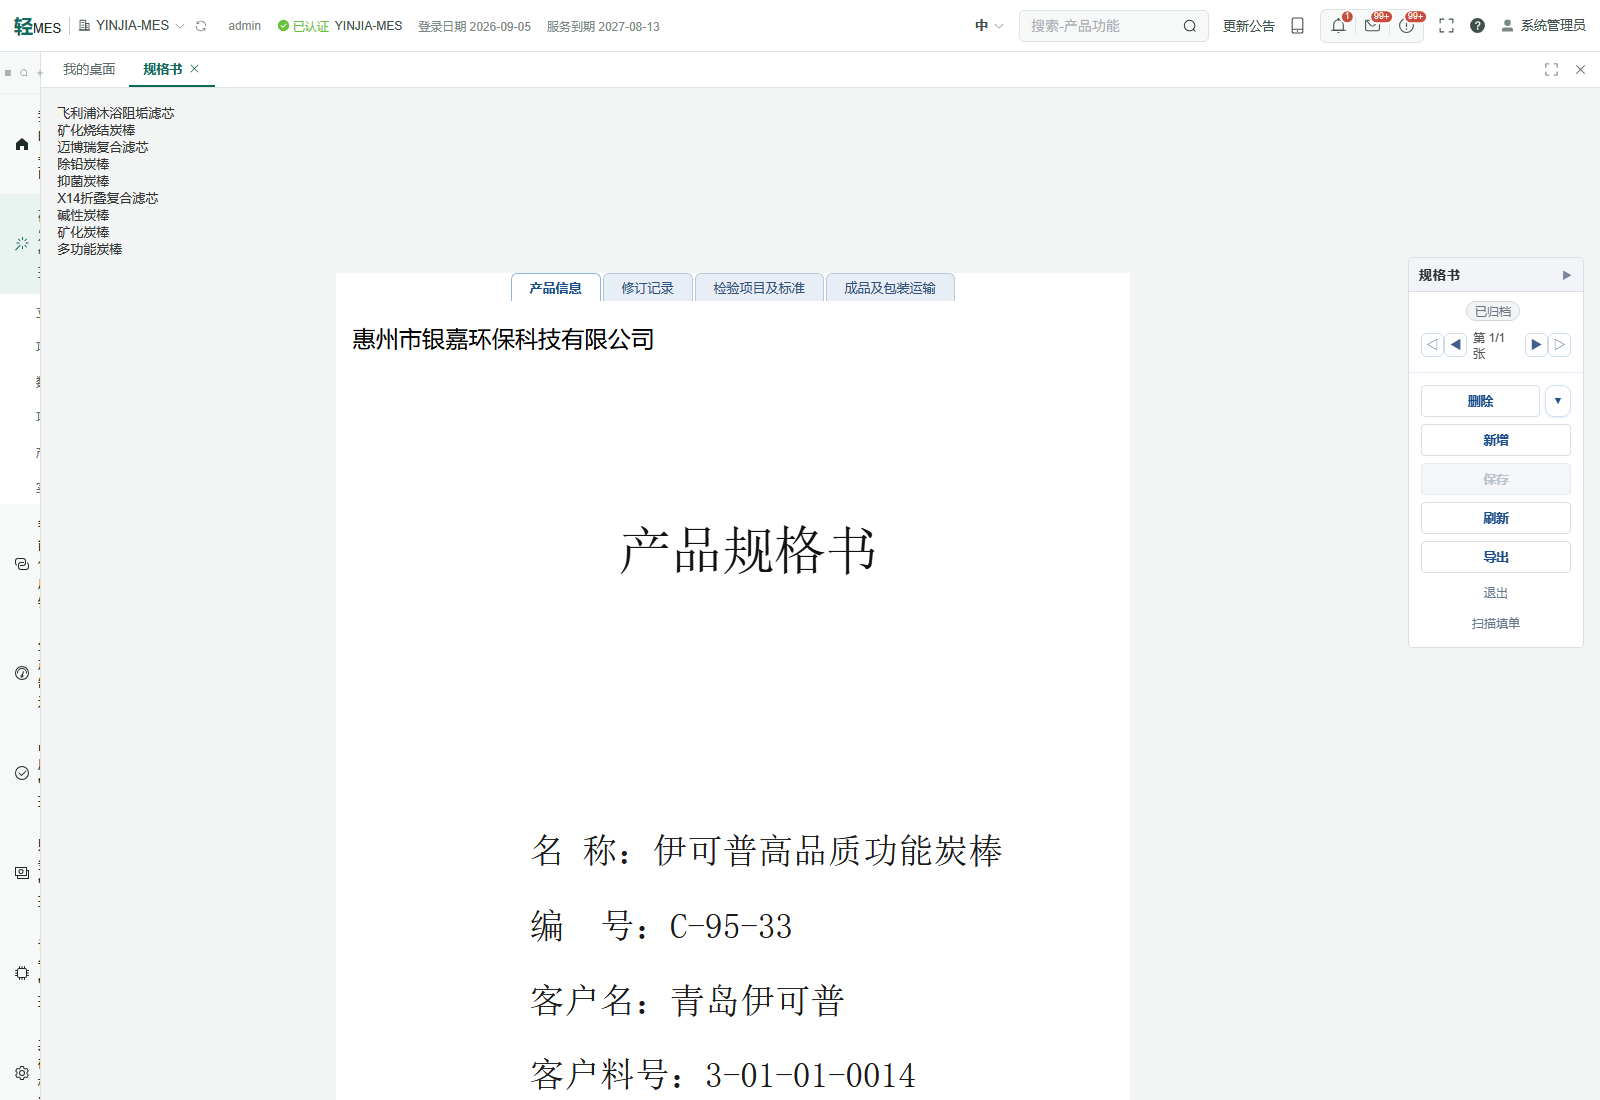
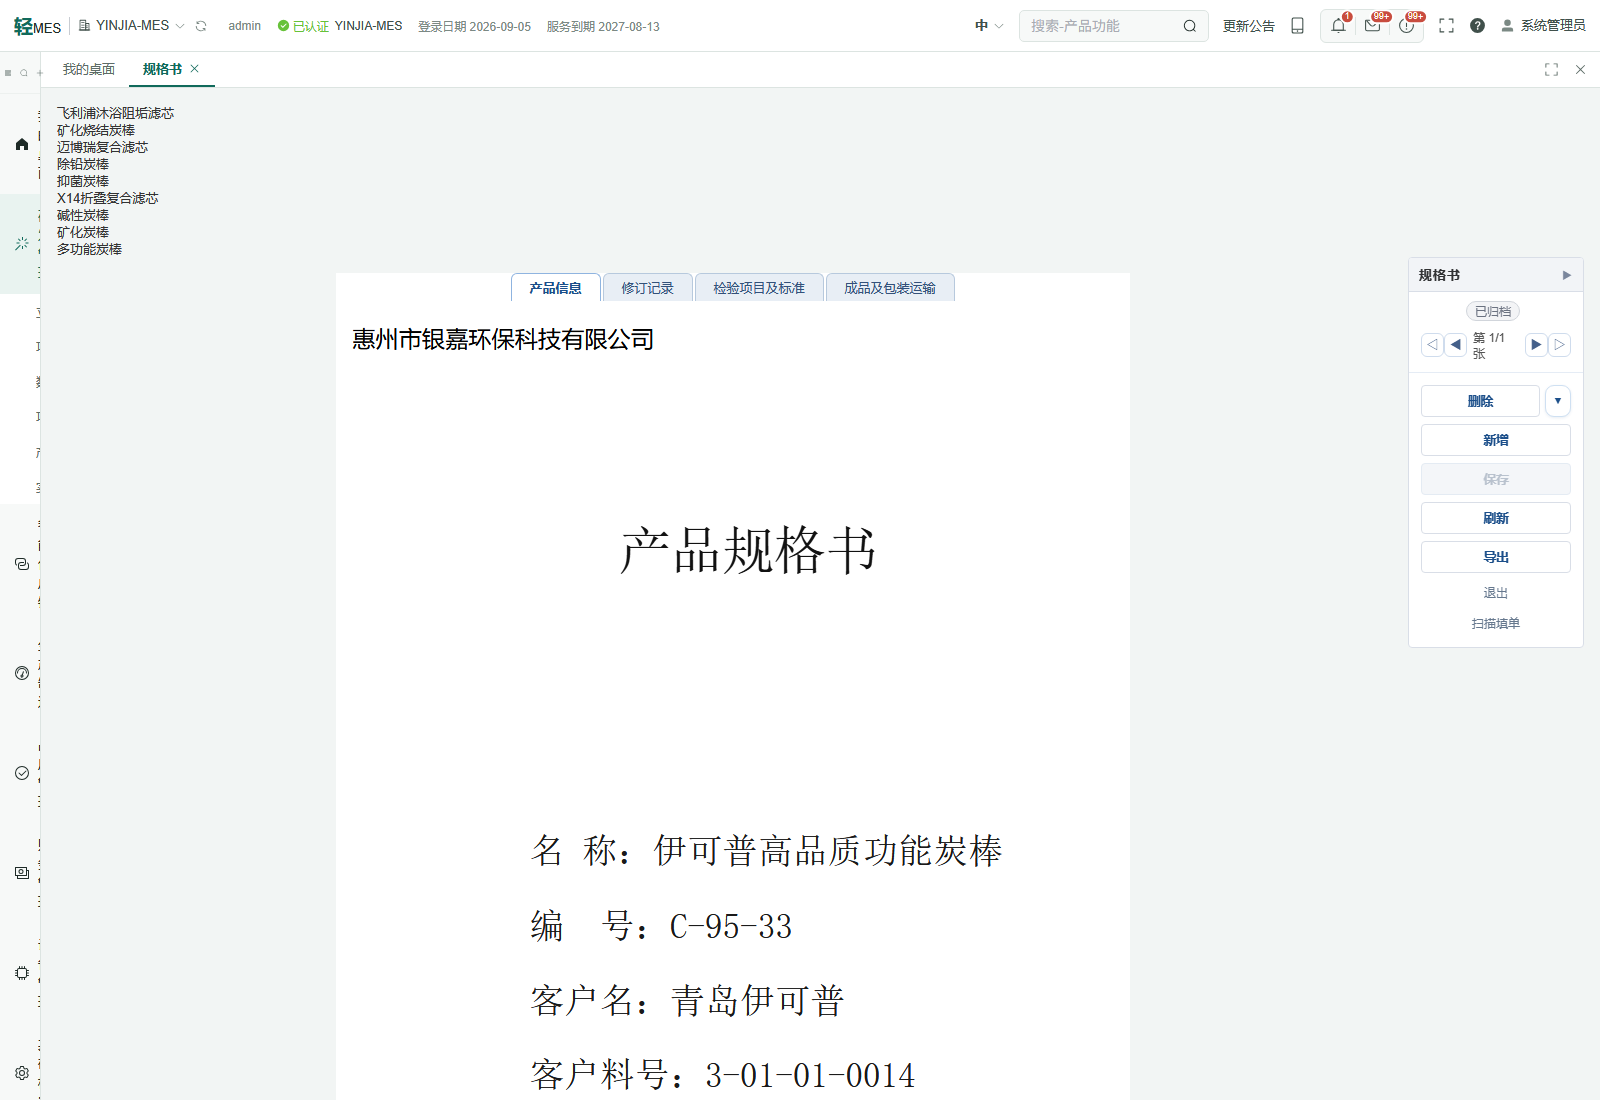
fix: 规格书封面签名表(制订/审核/批准)填写值字号缩小——16→12 设计px(渲染 13.5px),只读态覆盖复用的封面大字段样式(31.3px 出框);超长自动换行;实测 陈秀丽/2026/06/24 在 159px 框内零溢出

diff --git a/frontend/src/core/views/RecordSheetPanels.vue b/frontend/src/core/views/RecordSheetPanels.vue
@@ -1336,13 +1336,20 @@ function chartOf(dt) {
   padding: 0 8px;
   text-align: center;
   vertical-align: middle;
-  font-size: calc(16px * var(--cok));
+  /* 填写值字号缩小(16→12 设计px):正常长度(如 陈秀丽/2026/06/24)不出框,超长自动换行 */
+  font-size: calc(12px * var(--cok));
   font-family: 'SimSun', 'Songti SC', serif;
+  word-break: break-all;
 }
 .rsp-sign-input :deep(.el-input__inner) {
   text-align: center;
-  font-size: calc(16px * var(--cok));
-  line-height: 1.6;
+  font-size: calc(12px * var(--cok));
+  line-height: 1.5;
+}
+/* 只读态值沿用 .rsp-cover-val(封面大字段 31.3px)会出框,签名格内覆盖为小字号 */
+.rsp-sign-td .rsp-cover-val {
+  font-size: calc(12px * var(--cok));
+  line-height: 1.4;
 }
 
 /* ═══ 文档式章节行(规格书 P4) ═══ */
